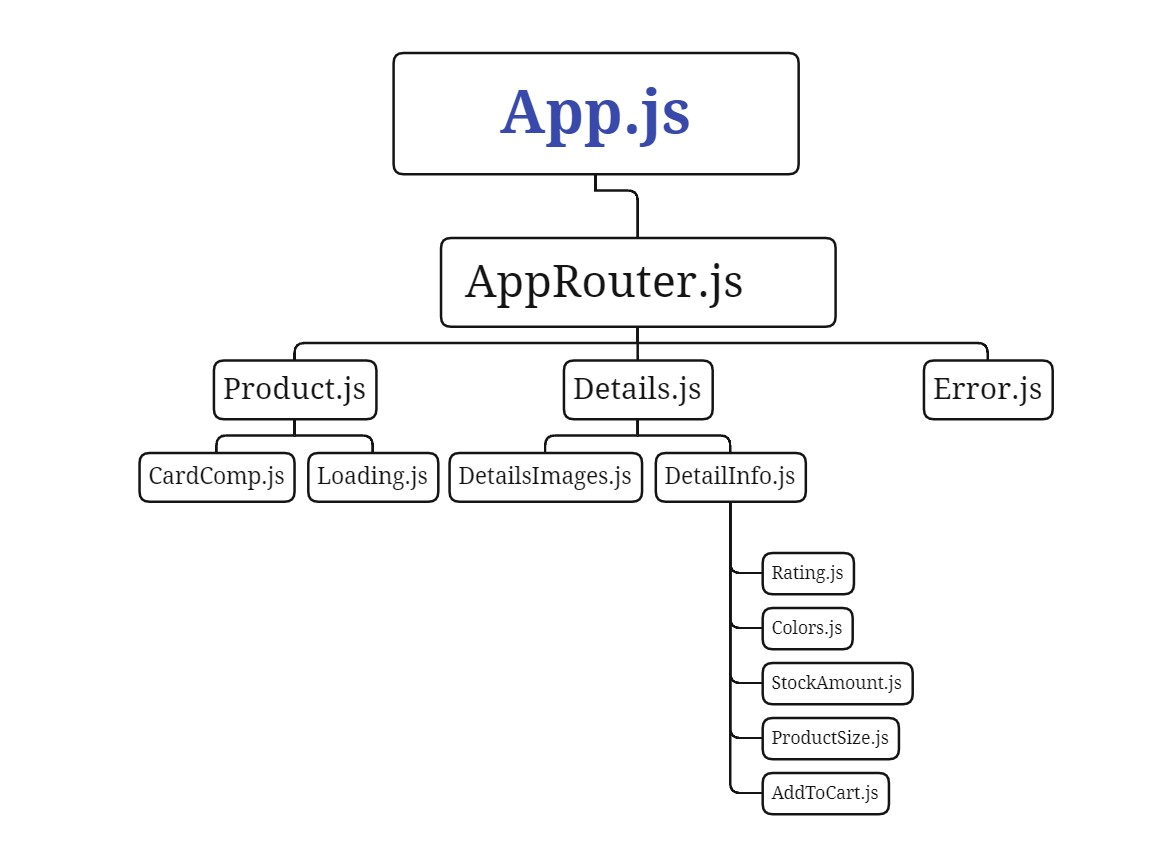
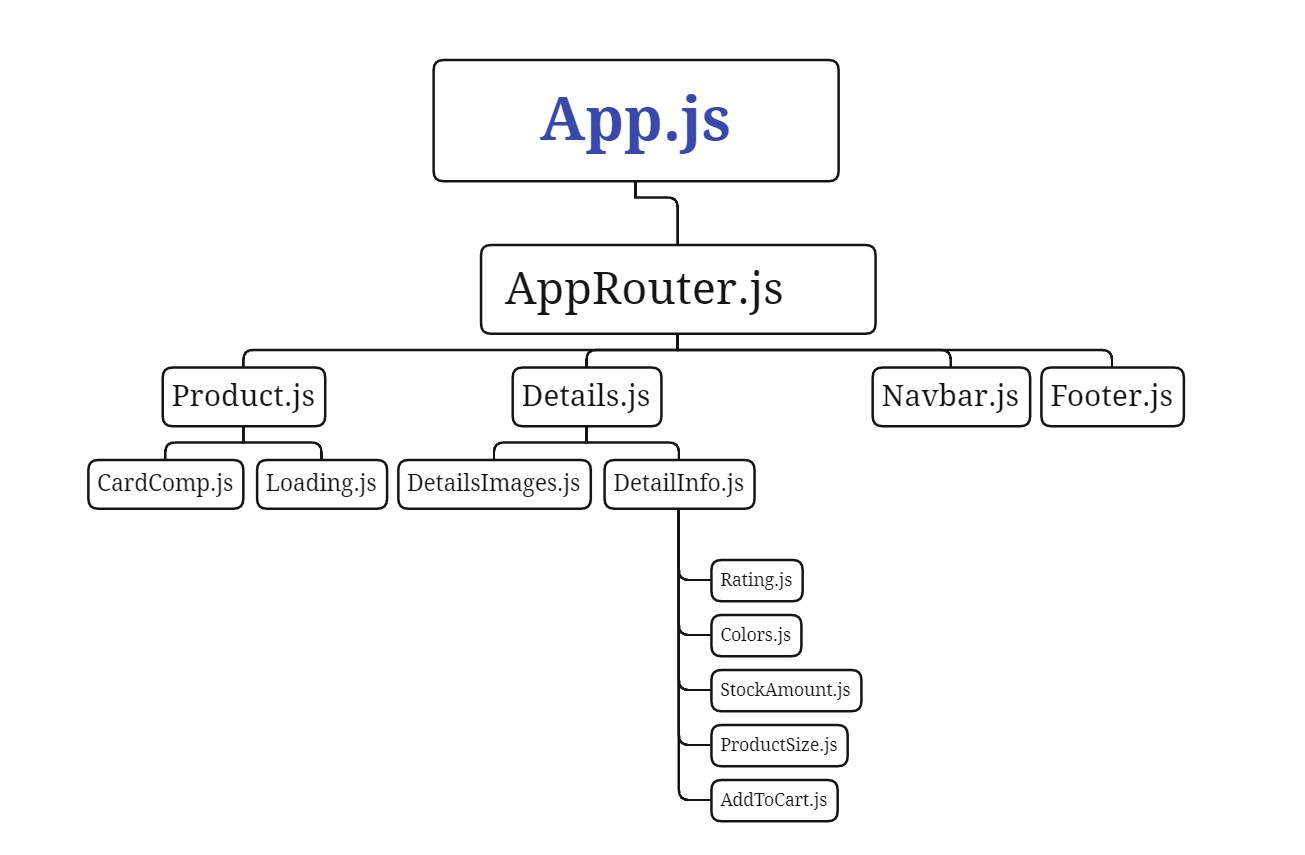
v7

Changed region(s): [[0.0617, 0.0612, 0.9254, 0.9788]]

diff --git a/src/router/AppRouter.js b/src/router/AppRouter.js
@@ -1,19 +1,23 @@
-import React from 'react'
-import { BrowserRouter as Router,Routes,Route } from 'react-router-dom'
-import Error from '../components/Error'
-import Details from '../pages/Details'
-import Product from '../pages/Product'
+import React from "react";
+import { BrowserRouter as Router, Routes, Route } from "react-router-dom";
+import Error from "../components/Error";
+import Details from "../pages/Details";
+import Footer from "../pages/Footer";
+import Navbar from "../pages/Navbar";
+import Product from "../pages/Product";
 
 function AppRouter() {
   return (
     <Router>
+      <Navbar />
       <Routes>
-        <Route path='/' element={<Product/>}/> 
-        <Route path='/details/:id' element={<Details/>}/> 
-        <Route path='*' element={<Error/>}/> 
+        <Route path="/" element={<Product />} />
+        <Route path="/details/:id" element={<Details />} />
+        <Route path="*" element={<Error />} />
       </Routes>
+      <Footer />
     </Router>
-  )
+  );
 }
 
-export default AppRouter
+export default AppRouter;

diff --git a/src/pages/Navbar.js b/src/pages/Navbar.js
@@ -1,0 +1,16 @@
+import React from 'react'
+import "./style/navbar.css";
+import header from "../assets/header.svg";
+import { AiOutlineShoppingCart } from "react-icons/ai";
+
+function Navbar() {
+  return (
+    <section className="navbar">
+      <img src={header} alt="" />
+      <header>E-Commarce Site</header>
+      <AiOutlineShoppingCart/>
+    </section>
+  )
+}
+
+export default Navbar

diff --git a/src/pages/Footer.js b/src/pages/Footer.js
@@ -1,0 +1,14 @@
+import React from 'react'
+import "./style/footer.css";
+
+
+function Footer() {
+  return (
+    <footer className='footer'>
+      <p>All Rights Reserved &copy; {new Date().getFullYear()}</p>
+      <p>Mustafa Altaş</p>
+    </footer>
+  )
+}
+
+export default Footer

diff --git a/src/pages/style/navbar.css b/src/pages/style/navbar.css
@@ -1,0 +1,16 @@
+.navbar {
+    display: flex;
+    justify-content: space-around;
+    align-items: center;
+}
+header {
+    font-family: 'Roboto', sans-serif;
+    font-size: 2rem;
+}
+.navbar img{
+    width: 100px;
+    height: 100px;
+}
+.navbar svg{
+    font-size: 2rem;
+}

diff --git a/src/components/Colors.js b/src/components/Colors.js
@@ -2,6 +2,7 @@ import React, { useState } from "react";
 import "./style/colors.css";
 import { FaCheck } from "react-icons/fa";
 import styled from "styled-components";
+
 const Wrapper = styled.section`
   display: flex;
   justify-content: space-between;

diff --git a/src/pages/style/footer.css b/src/pages/style/footer.css
@@ -1,0 +1,6 @@
+.footer{
+    display: flex;
+    flex-direction: column;
+    justify-content: center;
+    align-items: center;
+}
